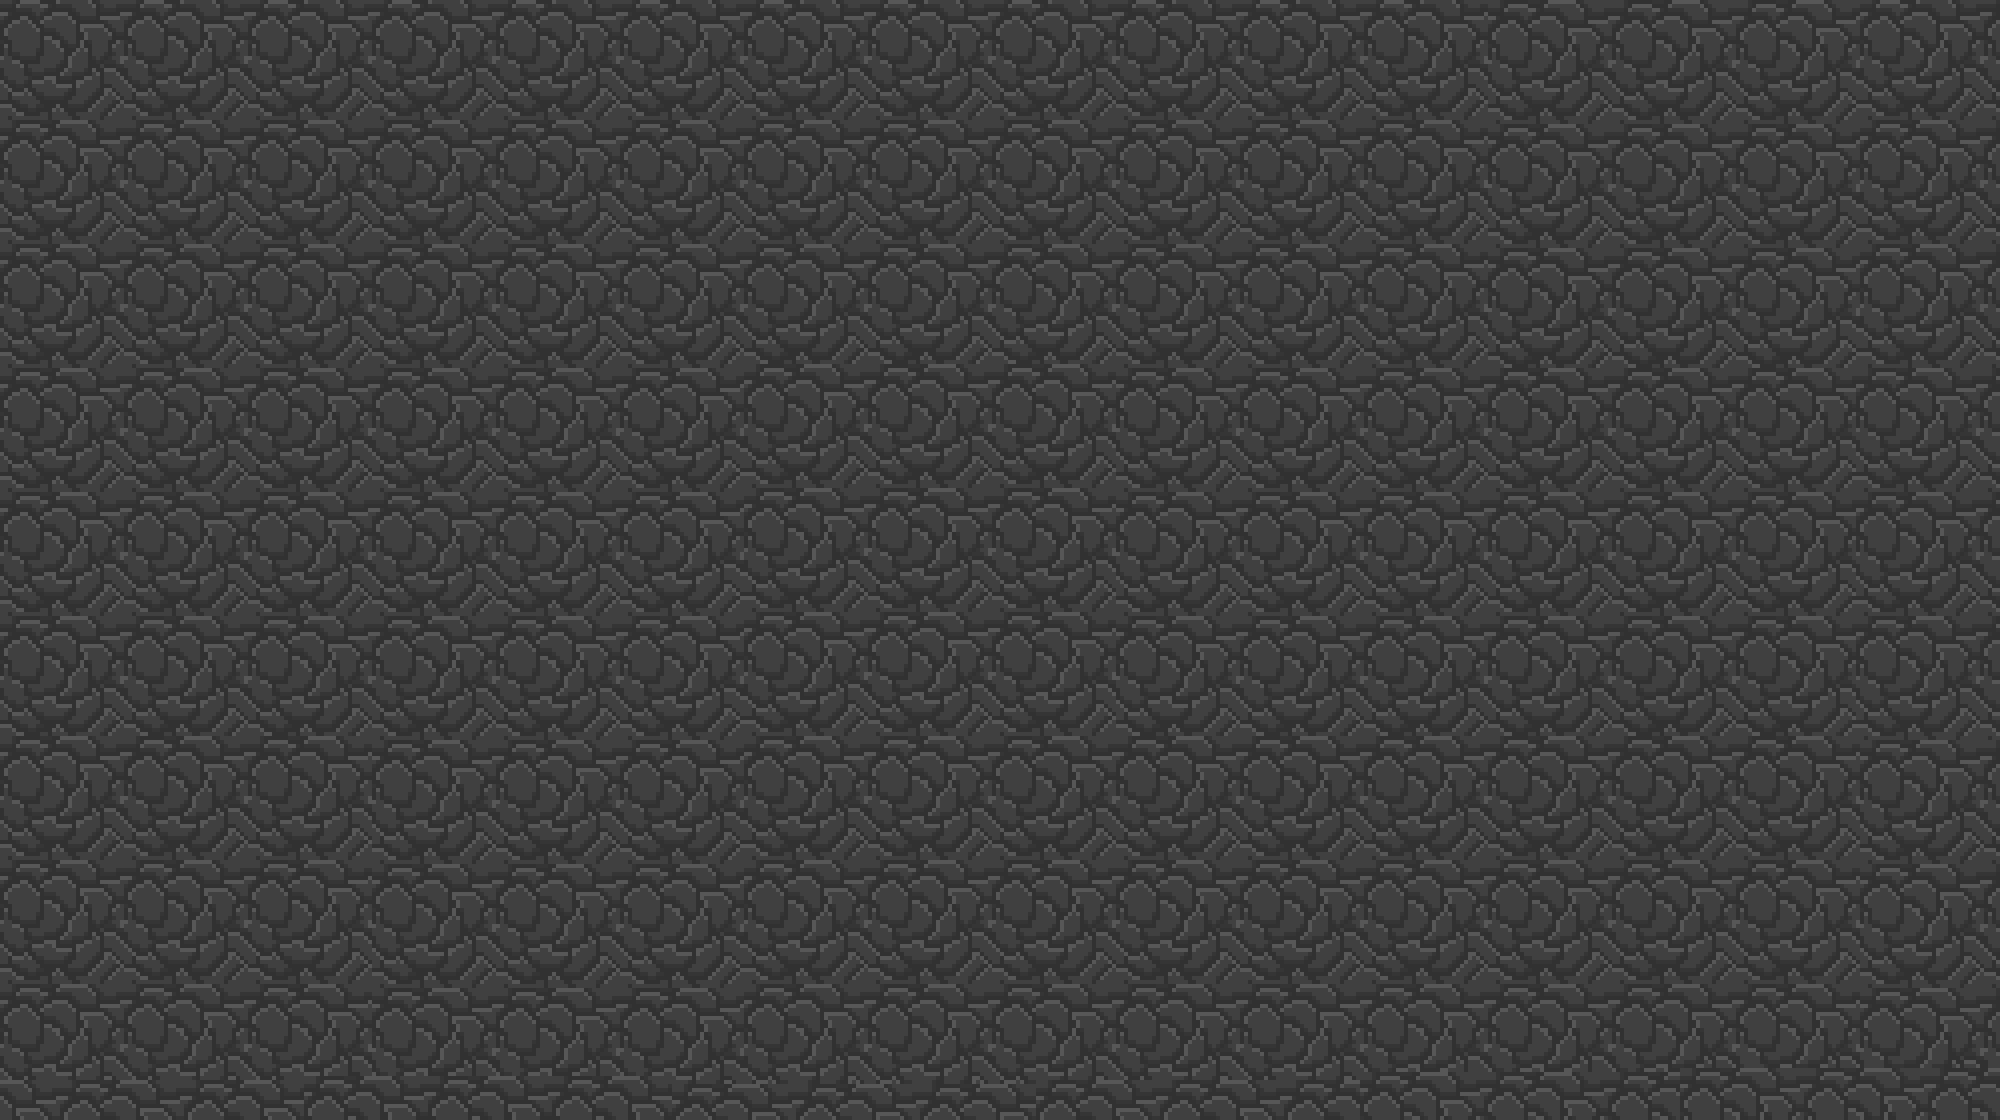
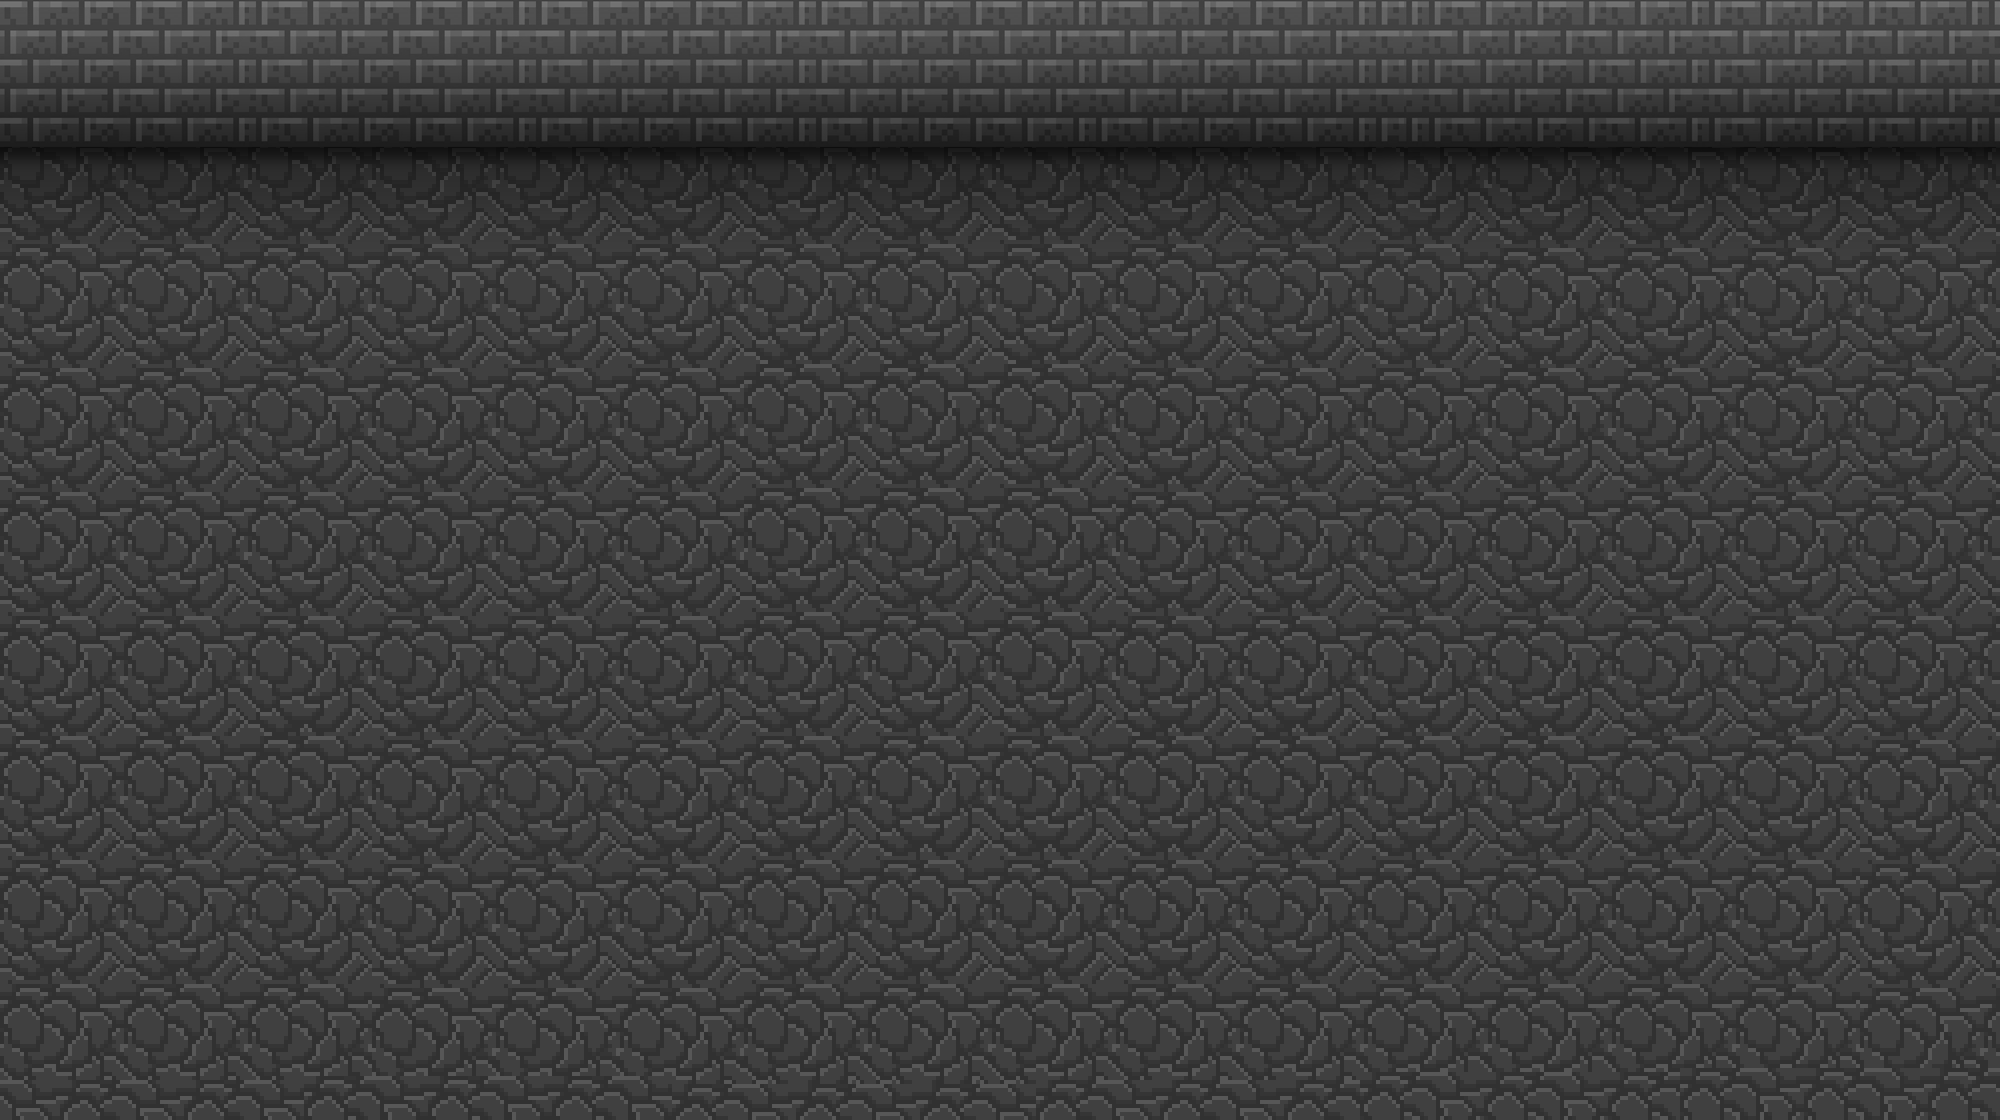
new bg sprite, door open closed

Changed region(s): [[0.0, 0.0, 1.0, 0.1562]]

diff --git a/GameNext.py b/GameNext.py
@@ -24,8 +24,16 @@ class Game:
 
         self.bg = pygame.transform.smoothscale(pygame.image.load("assets/bg.png").convert_alpha(),
                                                (self.resolution.x, self.resolution.y))
-        self.door = GameObject(x=self.resolution.x / 2, y=0,
-                               sprite=pygame.image.load("assets/door.png").convert_alpha(), speed=())
+
+        self.door_open_sprite = pygame.transform.smoothscale(pygame.image.load("assets/door_open.png").convert_alpha(),
+                                               (self.resolution.x*0.07, self.resolution.y*0.145))
+
+        self.door_sprite =  pygame.transform.smoothscale(pygame.image.load("assets/door.png").convert_alpha(),
+                                               (self.resolution.x*0.07, self.resolution.y*0.145))
+
+        self.door_open = GameObject(x=self.resolution.x / 2, y=0, sprite=self.door_open_sprite, speed=())
+
+        self.door = GameObject(x=self.resolution.x / 2, y=0, sprite=self.door_sprite, speed=())
 
         self.player = CharObject(x=self.resolution.x / 2, y=self.resolution.y * 0.8, speed=Axis(8, 6),
                                  sprite=pygame.image.load("assets/player.png").convert_alpha(), life=80, tag=0)
@@ -49,6 +57,15 @@ class Game:
                 self.player_input()
 
             self.screen.blit(self.bg, (0, 0))
+            
+            if len(self.enemies) == 0:
+                self.door_open.render(self.screen)
+                
+                if self.player.get_rect().colliderect(self.door_open.get_rect()):
+                    self.next_level()
+
+            else:
+                self.door.render(self.screen)
 
             for enemy in self.enemies:
                 if enemy.x > self.resolution.x * 0.95:
@@ -108,12 +125,8 @@ class Game:
             if not self.game_over:
                 self.player.render(self.screen)
 
+            
             self.cursor.render(self.screen)
-
-            if len(self.enemies) == 0:
-                self.door.render(self.screen)
-                if self.player.get_rect().colliderect(self.door.get_rect()):
-                    self.next_level()
 
             pygame.display.update()
 
@@ -127,7 +140,7 @@ class Game:
         keys = pygame.key.get_pressed()
 
         if keys[pygame.K_w]:
-            if self.player.y > 0:
+            if self.player.y > 50:
                 self.player.y -= self.player.speed.y * self.frame_time
 
         if keys[pygame.K_s]:
